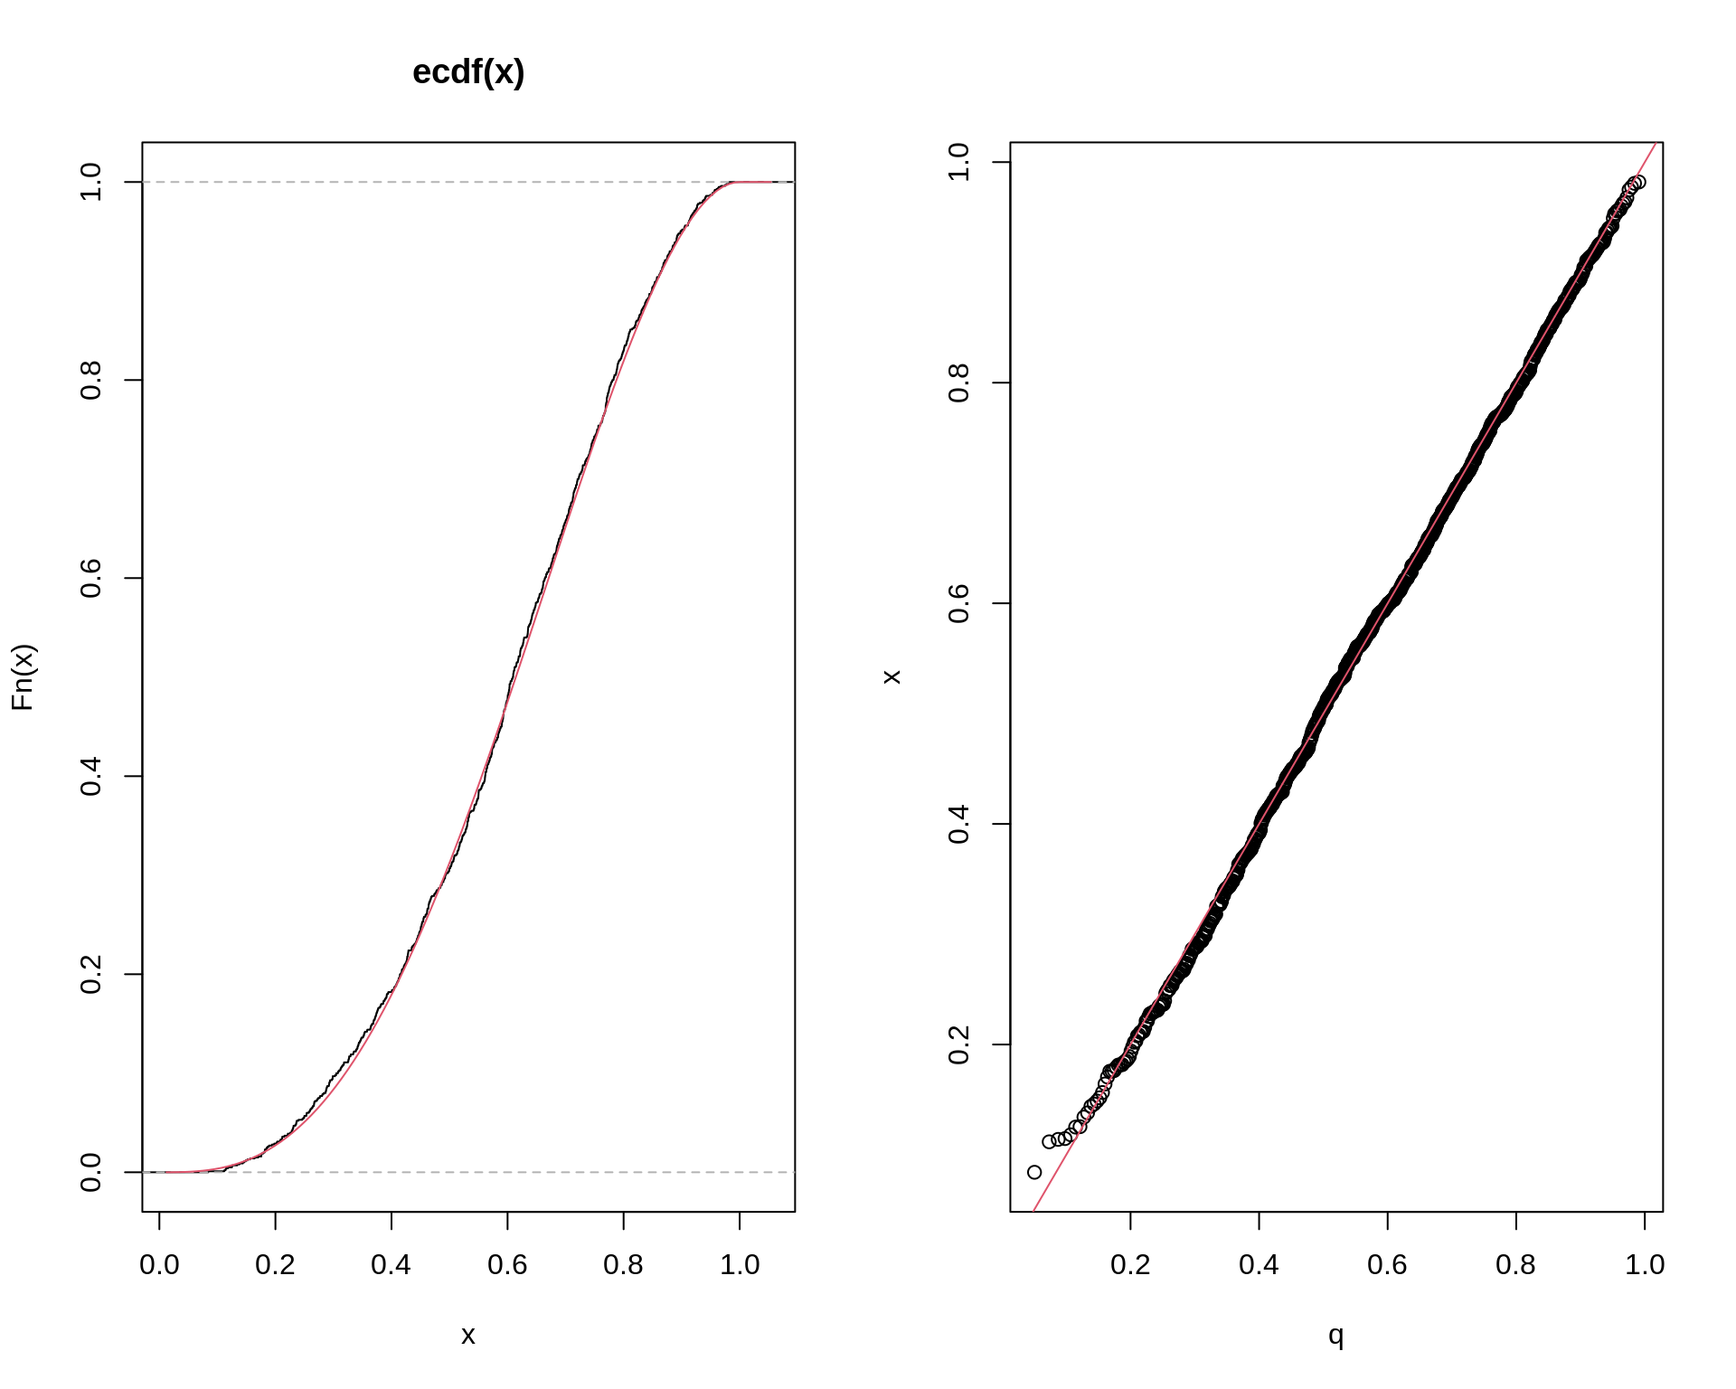
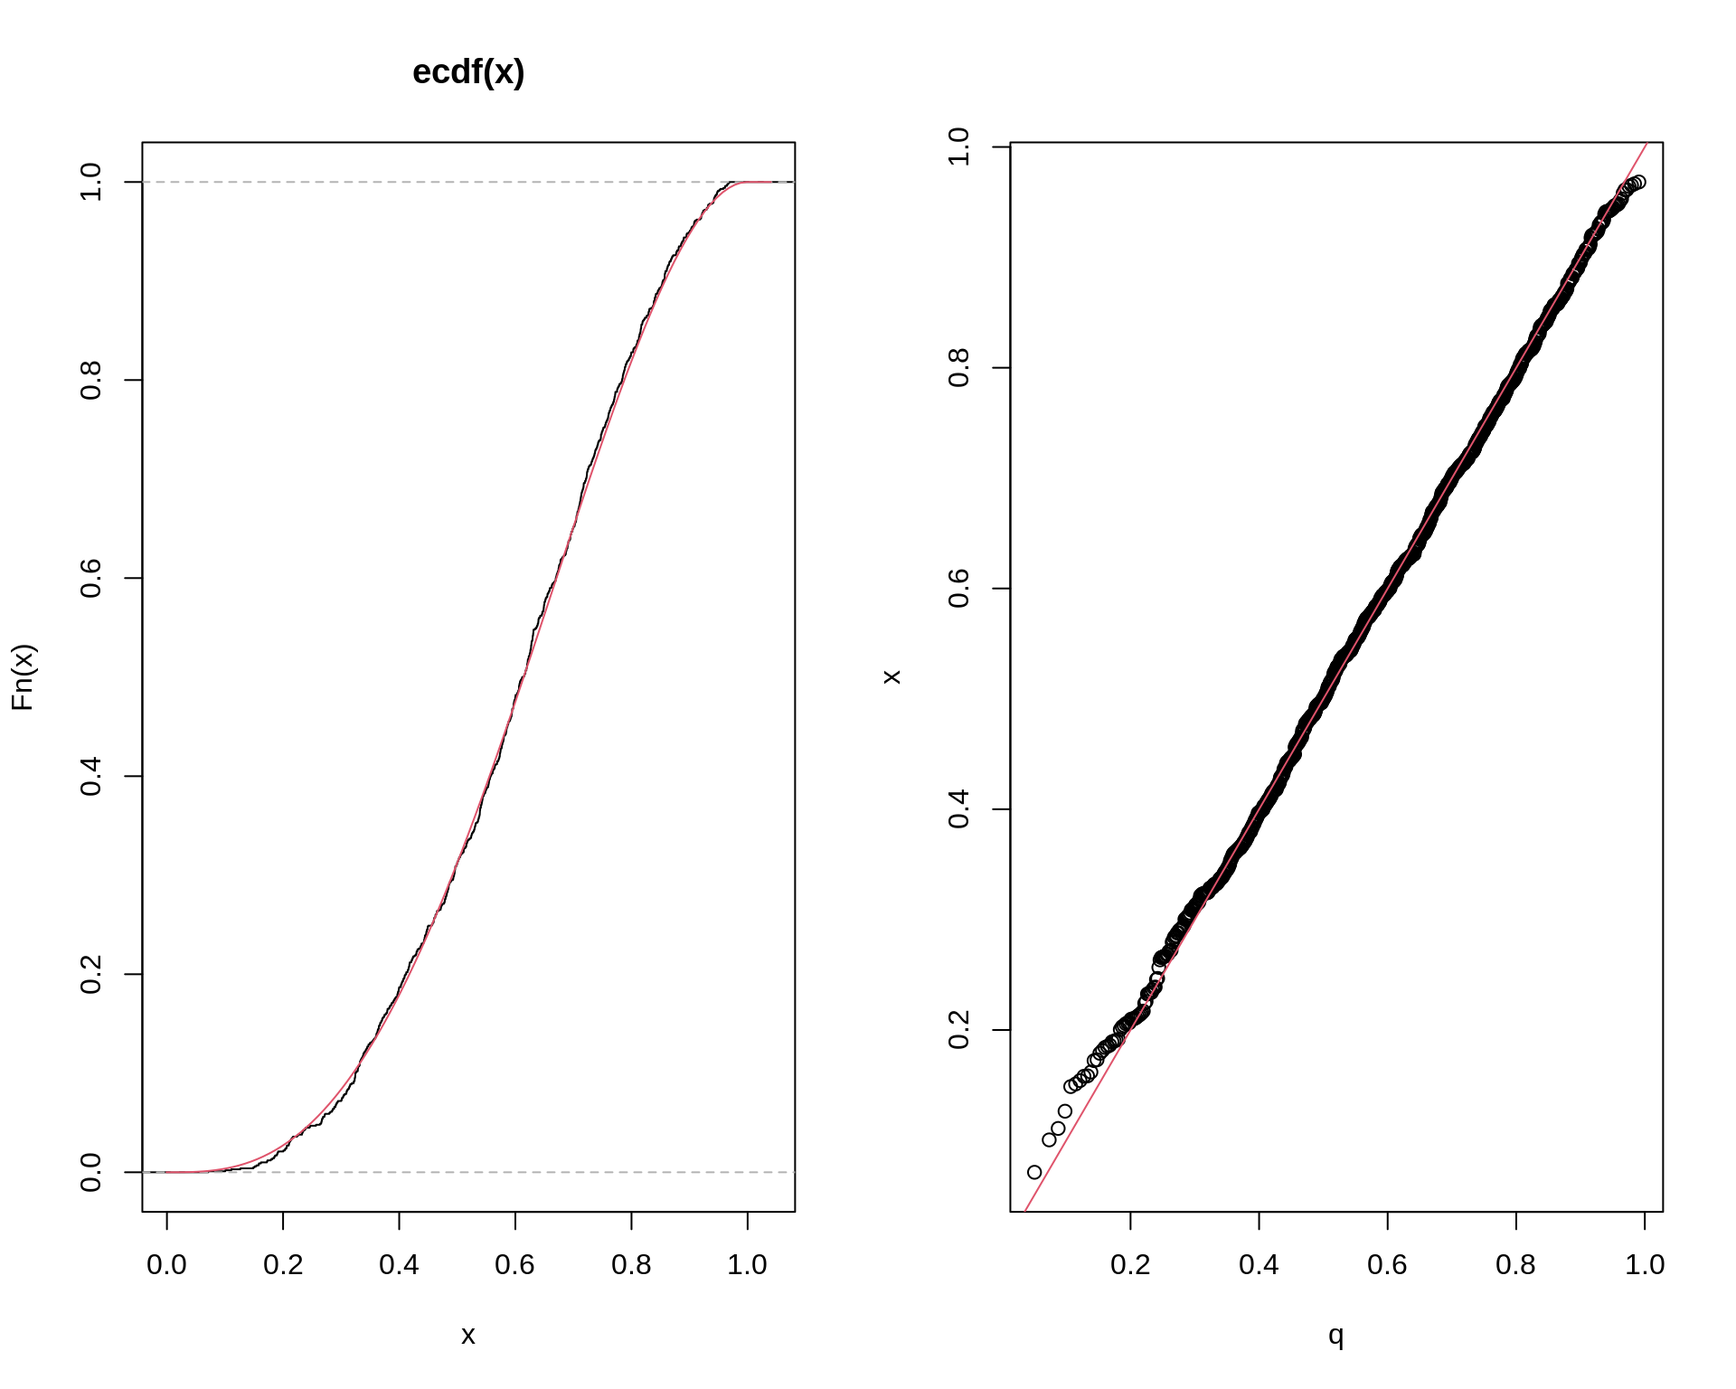
deploy: 10219f702ee48d88070e6d3098b2afc6fa2993da

diff --git a/04_RNG_aceitacao.html b/04_RNG_aceitacao.html
@@ -378,8 +378,8 @@ div.tocify {
 <h1><span class="header-section-number">1</span> Introdução</h1>
 <p>Quando se deseja gerar números aleatórios de distribuições de probabilidade, nem sempre é possível aplicar o método da transformação integral da probabilidade. Alguns situação são:</p>
 <ul>
-<li>Casos em que não se tem expressão para a função de densidade acumulada, <span class="math inline">\(F\)</span>, como é o caso da distribuição gaussiana e gama.</li>
-<li>Casos em que mesmo que se conheça <span class="math inline">\(F(x)\)</span> não possível chegar à uma expressão para a função <span class="math inline">\(F^{-1}\)</span>.</li>
+<li>Casos em que não se tem expressão para a função de densidade acumulada <span class="math inline">\(F(x)\)</span></li>
+<li>Casos em que mesmo que se conheça <span class="math inline">\(F(x)\)</span> não possível chegar à uma expressão para a função <span class="math inline">\(F^{-1}(x)\)</span>.</li>
 </ul>
 </div>
 <div id="método-de-aceitação-e-rejeição" class="section level1">
@@ -411,14 +411,14 @@ M \geq \max_x \frac{f(x)}{g(x)}
 </ol>
 <div id="exemplo-1" class="section level2">
 <h2><span class="header-section-number">2.1</span> Exemplo 1</h2>
-<p>Seja <span class="math inline">\(X\)</span> uma VA com <span class="math inline">\(f(x) = 1.5 x^2, -1 &lt; x &lt; 1\)</span>. Simular valores desta.</p>
-<pre class="r"><code>## Gráfico da f.d.p da v.a. X, f(x).
+<p>Seja <span class="math inline">\(X\)</span> uma VA com <span class="math inline">\(f(x) = 1.5 x^2, -1 &lt; x &lt; 1\)</span>. Simular valores desta distribuição.</p>
+<pre class="r"><code>## Gráfico da fdp da VA X, f(x).
 curve(1.5 * (x ^ 2), -1, 1)</code></pre>
 <p><img src="figures/04_RNG_aceitacao/fdp-1.png" width="80%" style="display: block; margin: auto;" /></p>
 <pre class="r"><code>## Tem integral 1?
 integrate(function(x) 1.5 * (x^2), lower = -1, upper = 1)</code></pre>
 <pre><code># 1 with absolute error &lt; 1.1e-14</code></pre>
-<p>Vamos considerar como <span class="math inline">\(g\)</span> (a distribuição proposta) a densidade de uma uniforme entre -1 e 1. Então se a base é 2, o altura deve ser 0.5 para ter produto 1, assim <span class="math inline">\(g(y) = 0.5, -1 &lt; y &lt; 1\)</span>. Qual deve ser um valor de <span class="math inline">\(M\)</span> para garantir que <span class="math inline">\(f(x) \leq M g(x)\)</span> para todo <span class="math inline">\(x\)</span> dentro do intervalo <span class="math inline">\([-1, 1]\)</span>? Pela definição acima, temos que: <span class="math display">\[
+<p>Vamos considerar como <span class="math inline">\(g\)</span> (a distribuição proposta) a densidade de uma uniforme entre -1 e 1. Então se a base é 2, a altura deve ser 0.5 para ter produto 1, assim <span class="math inline">\(g(y) = 0.5, -1 &lt; y &lt; 1\)</span>. Qual deve ser um valor de <span class="math inline">\(M\)</span> para garantir que <span class="math inline">\(f(x) \leq M g(x)\)</span> para todo <span class="math inline">\(x\)</span> dentro do intervalo <span class="math inline">\([-1, 1]\)</span>? Pela definição acima, temos que: <span class="math display">\[
 M \geq \max_x \frac{f(x)}{g(x)} = \frac{1.5}{0.5} = 3
 \]</span> Portanto, fazemos <span class="math inline">\(M = 3\)</span>, pois esse é o valor mínimo necessário para satisfazer <span class="math inline">\(f(x) \leq M g(x)\)</span> (e queremos o valor de <span class="math inline">\(M\)</span> menor possível para mais eficiência computacional).</p>
 <p>No gráfico abaixo, vemos a função <span class="math inline">\(f(x)\)</span>, a proposta <span class="math inline">\(g(x)\)</span>, e a que iremos de fato utilizar no algoritmo, a <span class="math inline">\(M g(x)\)</span></p>
@@ -433,7 +433,7 @@ legend(&quot;bottomright&quot;, legend = c(&quot;f(x)&quot;, &quot;g(x)&quot;, &
 f &lt;- function(x) 1.5 * x^2
 g &lt;- function(x) 0.5 + 0 * x
 M &lt;- 3
-x &lt;- NULL
+x &lt;- numeric(1)
 
 ## 1. Gerar y cuja densidade é g()
 set.seed(1)
@@ -456,20 +456,20 @@ if (u &lt; r) {
 <p>Verifica os pontos no gráfico:</p>
 <pre class="r"><code>curve(1.5 * (x^2), -1, 1, col = 4)
 curve(3 * 0.5 + 0 * x, add = TRUE, lty = 2, lwd = 2)
-legend(&quot;bottomright&quot;, legend = c(&quot;f(x)&quot;, &quot;g(x)&quot;, &quot;M g(x)&quot;),
-       lty = c(1, 2, 2), col = c(4, 1, 1), lwd = c(1, 1, 2), bty = &quot;n&quot;)
+legend(&quot;bottomright&quot;, legend = c(&quot;f(x)&quot;, &quot;M g(x)&quot;),
+       lty = c(1, 2), col = c(4, 1), lwd = c(1, 2), bty = &quot;n&quot;)
+points(y, 0, pch = 19, col = 5)
+text(y, 0, bquote(y == .(round(y, 3))), pos = 4, col = 5)
 points(y, f(y), pch = 19, col = 4)
-text(y, f(y), &quot;f(y)&quot;, pos = 4, col = 4)
+text(y, f(y), bquote(f(y) == .(round(f(y), 3))), pos = 4, col = 4)
 points(y, M * g(y), pch = 19, col = 1)
-text(y, M * g(y), &quot;M g(y)&quot;, pos = 1, col = 1)
+text(y, M * g(y), bquote(M %.% g(y) == .(M * g(y))), pos = 1, col = 1)
 points(y, u * M * g(y), pch = 19, col = 2)
-text(y, u * M * g(y), &quot;u&quot;, pos = 4, col = 2)</code></pre>
+text(y, u * M * g(y), bquote(u == .(round(u, 3))), pos = 4, col = 2)
+text(.15, 1, bquote(f(y) / M %.% g(y) == .(round(r, 3))), pos = 4)</code></pre>
 <p><img src="figures/04_RNG_aceitacao/proposalpoints-1.png" width="80%" style="display: block; margin: auto;" /></p>
 <p>Note que o valor sorteado de <span class="math inline">\(y\)</span> (da proposta <span class="math inline">\(\text{U}[-1,1]\)</span>) foi -0.469. Os pontos azul e preto são as densidades da <span class="math inline">\(f\)</span> e da <span class="math inline">\(g\)</span> avaliadas nesse ponto. Como o valor sorteado <span class="math inline">\(u\)</span> (da <span class="math inline">\(\text{U}[0,1]\)</span>) foi <span class="math inline">\(0.372 &gt; 0.22 = f(y)/Mg(y)\)</span>, então o valor de <span class="math inline">\(y\)</span> é rejeitado. Isso fica claro pelo gráfico, pois esse ponto está em uma área acima da densidade de <span class="math inline">\(f\)</span>, portanto não deve fazer parte de uma amostra dessa distribuição.</p>
 <p>Veja também que o valor de <span class="math inline">\(u\)</span> é comparável com a razão <span class="math inline">\(f(y)/Mg(y)\)</span>, pois esta razão sempre será algum valor entre 0 e 1. Portanto o valor de <span class="math inline">\(u\)</span> é sempre relativo à essa razão (i.e., não está na mesma escala das densidades de <span class="math inline">\(f\)</span> e <span class="math inline">\(g\)</span>).</p>
-<div class="alert alert-warning">
-<p>Para uma ilustração animada veja <a href="http://leg.ufpr.br/~walmes/ensino/EC2/tutoriais/met-ac-rej.html">este exemplo</a> da geração de números de uma distribuição normal, a partir de uma Cauchy (distribuição proposta). Para os detalhes da implementação veja <a href="http://leg.ufpr.br/~walmes/ensino/EC2/tutoriais/06-met-ac-rej.html">este link</a>.</p>
-</div>
 <p>Agora, podemos definir um algoritmo que repete esse processo para um número fixo de amostras da distribuição proposta.</p>
 <pre class="r"><code>## Simula de uma única vez, com um valor fixo de simulações
 Nsim &lt;- 2500
@@ -668,6 +668,85 @@ legend(&quot;right&quot;, legend = c(&quot;Empírica&quot;, &quot;Teórica&quot;
        lty = 1, col = 1:2, bty = &quot;n&quot;)
 par(mfrow = c(1, 1))</code></pre>
 <p><img src="figures/04_RNG_aceitacao/betaconf-1.png" width="80%" style="display: block; margin: auto;" /></p>
+</div>
+<div id="exemplo-3" class="section level2">
+<h2><span class="header-section-number">2.3</span> Exemplo 3</h2>
+<p>Suponha que deseja-se gerar valores de uma VA <span class="math inline">\(X \sim \text{N}(0, 1)\)</span> a partir de uma VA <span class="math inline">\(Y \sim \text{Cauchy}(0, 1)\)</span>.</p>
+<pre class="r"><code>## Verifica as distribuições
+curve(dnorm(x), -6, 6)
+curve(dcauchy(x), add = TRUE, lty = 2)
+legend(&quot;topright&quot;, legend = c(&quot;Normal&quot;, &quot;Cauchy&quot;),
+       lty = c(1, 2))</code></pre>
+<p><img src="figures/04_RNG_aceitacao/unnamed-chunk-14-1.png" width="80%" style="display: block; margin: auto;" /></p>
+<pre class="r"><code>## Obtém valor de M por otimização
+(M &lt;- optimize(f = function(x) {dnorm(x)/dcauchy(x)},
+               interval = c(-6, 6), maximum = TRUE)$objective)</code></pre>
+<pre><code># [1] 1.520347</code></pre>
+<pre class="r"><code>## Verifica as relações
+curve(M * dcauchy(x), lty = 2, lwd = 2, -6, 6,
+      ylim = c(0, M * dcauchy(0)))
+curve(dnorm(x), add = TRUE)
+curve(dcauchy(x), add = TRUE, lty = 2)
+legend(&quot;topright&quot;, legend = c(&quot;f(x)&quot;, &quot;g(x)&quot;, &quot;M g(x)&quot;),
+       lty = c(1, 2, 2), lwd = c(1, 1, 2), bty = &quot;n&quot;)</code></pre>
+<p><img src="figures/04_RNG_aceitacao/unnamed-chunk-14-2.png" width="80%" style="display: block; margin: auto;" /></p>
+<pre class="r"><code>## Cria as funções
+f &lt;- function(x) dnorm(x, 0, 1)
+g &lt;- function(x) dcauchy(x, 0, 1)
+
+## Simula
+Nsim &lt;- 2500
+## Amostra da proposta
+y &lt;- rcauchy(Nsim)
+## Amostra da U(0,1)
+u &lt;- runif(Nsim)
+r &lt;- f(y)/(M * g(y))
+x &lt;- y[u &lt; r]
+ua &lt;- u[u &lt; r]
+ur &lt;- u[u &gt;= r]
+
+## Gráfico de aceitação
+curve(dnorm(x), from = -6, to = 6, col = 4, ylim = c(0, .5))
+curve(M * dcauchy(x), add = TRUE, lty = 2, lwd = 2)
+points(x, ua * M * g(x), col = 3)
+points(y[u &gt;= r], ur * M * g(y[u &gt;= r]), col = 2)</code></pre>
+<p><img src="figures/04_RNG_aceitacao/unnamed-chunk-14-3.png" width="80%" style="display: block; margin: auto;" /></p>
+<pre class="r"><code>##----------------------------------------------------------------------
+## Aplicação direta do método para N valores
+n &lt;- 1    # Contador de valores aceitos
+l &lt;- 1    # Contador de ciclos
+N &lt;- 1000 # Total de número à gerar
+x &lt;- numeric(N)
+while (n &lt; N) {
+    y &lt;- rcauchy(1)
+    u &lt;- runif(1)
+    r &lt;- f(y)/(M * g(y))
+    if (u &lt; r) {
+        x[n] &lt;- y
+        n &lt;- n + 1
+    }
+    l &lt;- l + 1
+}
+
+## Verifica distribuição
+par(mfrow = c(1, 2))
+hist(x)
+plot(ecdf(x))
+curve(pnorm(x), add = TRUE, col = 2)
+legend(&quot;right&quot;, legend = c(&quot;Empírica&quot;, &quot;Teórica&quot;),
+       lty = 1, col = 1:2, bty = &quot;n&quot;)</code></pre>
+<p><img src="figures/04_RNG_aceitacao/unnamed-chunk-14-4.png" width="80%" style="display: block; margin: auto;" /></p>
+<pre class="r"><code>par(mfrow = c(1, 1))
+
+## Taxa de aceitação observada
+n/l</code></pre>
+<pre><code># [1] 0.6459948</code></pre>
+<pre class="r"><code>## Taxa de aceitação teórica
+1/M</code></pre>
+<pre><code># [1] 0.6577446</code></pre>
+<div class="alert alert-warning">
+<p>Para uma ilustração animada veja <a href="http://leg.ufpr.br/~walmes/ensino/EC2/tutoriais/met-ac-rej.html">este exemplo</a></p>
+</div>
 </div>
 </div>
 <div id="exercícios" class="section level1">

diff --git a/05_RNG_transform.html b/05_RNG_transform.html
@@ -455,14 +455,15 @@ k &lt;- 1:max(x)
 p &lt;- -1/log(1 - theta) * theta^k/k
 ## Compara a proporção de valores gerados com a prob. teórica
 cbind(&quot;Gerado&quot; = prop.table(table(x)), &quot;Teórico&quot; = p)</code></pre>
-<pre><code>#   Gerado     Teórico
-# 1  0.738 0.721347520
-# 2  0.155 0.180336880
-# 3  0.062 0.060112293
-# 4  0.023 0.022542110
-# 5  0.012 0.009016844
-# 6  0.008 0.003757018
-# 7  0.002 0.001610151</code></pre>
+<pre><code>#   Gerado      Teórico
+# 1  0.736 0.7213475204
+# 2  0.168 0.1803368801
+# 3  0.060 0.0601122934
+# 4  0.023 0.0225421100
+# 5  0.009 0.0090168440
+# 6  0.001 0.0037570183
+# 7  0.002 0.0016101507
+# 8  0.001 0.0007044409</code></pre>
 <pre class="r"><code>## Comparação gráfica
 par(mfrow = c(1, 2))
 plot(prop.table(table(x)), xlab = &quot;X&quot;, ylab = &quot;P[X]&quot;)
@@ -544,13 +545,13 @@ p &lt;- dbinom(k, size = size, prob = prob)
 ## Compara a proporção de valores gerados com a prob. teórica
 round(cbind(&quot;Gerado&quot; = prop.table(table(x)), &quot;Teórico&quot; = p), 3)</code></pre>
 <pre><code>#   Gerado Teórico
-# 0  0.009   0.016
-# 1  0.100   0.094
-# 2  0.211   0.234
-# 3  0.330   0.312
-# 4  0.243   0.234
-# 5  0.096   0.094
-# 6  0.011   0.016</code></pre>
+# 0  0.010   0.016
+# 1  0.097   0.094
+# 2  0.209   0.234
+# 3  0.320   0.312
+# 4  0.236   0.234
+# 5  0.111   0.094
+# 6  0.017   0.016</code></pre>
 <pre class="r"><code>## Comparação gráfica
 par(mfrow = c(1, 2))
 plot(prop.table(table(x)), xlab = &quot;X&quot;, ylab = &quot;P[X]&quot;)
@@ -755,13 +756,13 @@ boxmuller &lt;- function(n) {
     if (n %% 2 == 0) x else x[-1]
 }
 boxmuller(2)</code></pre>
-<pre><code># [1] 0.9234418 1.0826671</code></pre>
+<pre><code># [1] -1.6290155  0.6969178</code></pre>
 <pre class="r"><code>boxmuller(3)</code></pre>
-<pre><code># [1]  0.66055651  0.07799255 -1.80340422</code></pre>
+<pre><code># [1]  0.8034338 -0.7334233  0.3519718</code></pre>
 <pre class="r"><code>boxmuller(4)</code></pre>
-<pre><code># [1]  0.6975372 -0.3609859 -0.1677477 -0.4755585</code></pre>
+<pre><code># [1] -0.2283081 -1.9509366 -0.3770668  0.2954680</code></pre>
 <pre class="r"><code>boxmuller(5)</code></pre>
-<pre><code># [1] 1.0071460 1.0662797 0.1684460 0.1523806 0.3098626</code></pre>
+<pre><code># [1]  0.1846864  0.1709469  0.6878064 -0.8404593  0.9862879</code></pre>
 </div>
 <div id="método-de-coordenadas-polares" class="section level2">
 <h2><span class="header-section-number">4.3</span> Método de coordenadas polares</h2>
@@ -794,7 +795,7 @@ points(u1[!ac], u2[!ac], pch = 1, col = 2)</code></pre>
 \]</span></p>
 <p>A taxa de aceitação da simulação foi</p>
 <pre class="r"><code>sum(ac)/Nsim</code></pre>
-<pre><code># [1] 0.7912</code></pre>
+<pre><code># [1] 0.8032</code></pre>
 <div class="panel panel-primary">
 <div class="panel-heading">
 Aproximando o valor de <span class="math inline">\(\pi\)</span>
@@ -806,7 +807,7 @@ Aproximando o valor de <span class="math inline">\(\pi\)</span>
 \pi = \frac{4A_c}{A_q} \approx \frac{4 \text{ #circulo}}{\text{ #quadrado}}
 \]</span> para obter uma estimativa do valor de <span class="math inline">\(\pi\)</span></p>
 <pre class="r"><code>(4 * sum(ac))/Nsim</code></pre>
-<pre><code># [1] 3.1648</code></pre>
+<pre><code># [1] 3.2128</code></pre>
 </div>
 </div>
 <p>Conferindo os valores gerados:</p>
@@ -839,19 +840,19 @@ par(mfrow = c(1, 1))</code></pre>
     if (n %% 2 == 0) x else x[-1]
 }
 polarmethod(2)</code></pre>
-<pre><code># [1]  0.8877987 -0.9400620</code></pre>
+<pre><code># [1] 0.3925723 0.9865242</code></pre>
 <pre class="r"><code>polarmethod(3)</code></pre>
-<pre><code># [1] -0.5380968 -0.2598577 -0.9556475</code></pre>
+<pre><code># [1] -0.3265732  0.5116819  0.2362791</code></pre>
 <pre class="r"><code>polarmethod(4)</code></pre>
-<pre><code># [1] 0.1673346 0.9279059 1.1766460 1.7330495</code></pre>
+<pre><code># [1]  0.5076860  0.8425125 -0.8518986  0.7577005</code></pre>
 <pre class="r"><code>polarmethod(5)</code></pre>
-<pre><code># [1] -1.0159191 -1.4593440  1.1055767 -0.9991863 -1.2083035</code></pre>
+<pre><code># [1]  0.5641546  0.1920185  0.2441716 -1.0407564  0.7668041</code></pre>
 <p>Comparando os dois métodos vemos que, apesar do método polar não usar funções seno e cosseno, é necessário usar o <code>while()</code>, o que “encarece” o algoritmo computacionalemnte.</p>
 <pre class="r"><code>microbenchmark::microbenchmark(boxmuller(1000), polarmethod(1000))</code></pre>
 <pre><code># Unit: microseconds
 #               expr    min      lq     mean median      uq    max neval cld
-#    boxmuller(1000)   63.9   66.00   68.039   67.7   69.55   81.8   100  a 
-#  polarmethod(1000) 2518.0 2617.55 2875.013 2673.9 2720.75 7171.2   100   b</code></pre>
+#    boxmuller(1000)   63.8   66.00   67.854   66.9   68.55  107.1   100  a 
+#  polarmethod(1000) 2604.3 2647.05 2912.675 2683.8 2740.35 7375.5   100   b</code></pre>
 </div>
 <div id="a-função-rnorm" class="section level2">
 <h2><span class="header-section-number">4.4</span> A função <code>rnorm()</code></h2>

diff --git a/programacao.html b/programacao.html
@@ -778,15 +778,15 @@ st1 &lt;- system.time(
 )
 st1</code></pre>
 <pre><code>#    user  system elapsed 
-#   0.074   0.000   0.074</code></pre>
+#   0.075   0.000   0.075</code></pre>
 <pre class="r"><code>## Tempo de execução usando a regra da reciclagem
 st2 &lt;- system.time(
     y2 &lt;- x^2
 )
 st2</code></pre>
 <pre><code>#    user  system elapsed 
-#   0.002   0.000   0.002</code></pre>
-<p>Olhando o resultado de <code>elapsed</code>, que é o tempo total de execução de uma função medido por <code>system.time()</code>, notamos que usando a regra da reciclagem, o cálculo é aproximadamente 0.074/0.002 = 37 vezes mais rápido. Claramente esse é só um exemplo de um cálculo muito simples. Mas em situações mais complexas, a diferença entro o tempo de execução das duas formas pode ser muito maior.</p>
+#   0.004   0.000   0.004</code></pre>
+<p>Olhando o resultado de <code>elapsed</code>, que é o tempo total de execução de uma função medido por <code>system.time()</code>, notamos que usando a regra da reciclagem, o cálculo é aproximadamente 0.075/0.004 = 18.75 vezes mais rápido. Claramente esse é só um exemplo de um cálculo muito simples. Mas em situações mais complexas, a diferença entro o tempo de execução das duas formas pode ser muito maior.</p>
 <div class="panel panel-primary">
 <div class="panel-heading">
 Uma nota de precaução

diff --git a/objetos-classes.html b/objetos-classes.html
@@ -1513,7 +1513,7 @@ class(vec)</code></pre>
 # 
 # function (x, ...) 
 # standardGeneric(&quot;mean&quot;)
-# &lt;environment: 0x55a29320de28&gt;
+# &lt;environment: 0x555564982cf0&gt;
 # Methods may be defined for arguments: x
 # Use  showMethods(mean)  for currently available ones.</code></pre>
 <p>Agora veja o código fonte da função <code>mean.default</code>, que é o método específico para vetores numéricos</p>
@@ -1542,7 +1542,7 @@ class(vec)</code></pre>
 #     }
 #     .Internal(mean(x))
 # }
-# &lt;bytecode: 0x55a286eb5e58&gt;
+# &lt;bytecode: 0x5555585c9e58&gt;
 # &lt;environment: namespace:base&gt;</code></pre>
 <p>Agora suponha que você ddeseja criar uma função que calcule a média para um objeto de uma classe diferente daquelas previamente definidas. Por exemplo, suponha que você quer que a função <code>mean()</code> retorne a média das linhas de uma matriz.</p>
 <pre class="r"><code>set.seed(1)
@@ -1607,7 +1607,7 @@ class(dl)</code></pre>
 </div>
 <div id="informação-de-sessão" class="section level1">
 <h1><span class="header-section-number">11</span> Informação de Sessão</h1>
-<pre><code># Sunday, 20 February, 2022, 01:39
+<pre><code># Monday, 21 February, 2022, 21:49
 # ----------------------------------------
 # R version 4.1.2 (2021-11-01)
 # Platform: x86_64-pc-linux-gnu (64-bit)

diff --git a/10_bootstrap.html b/10_bootstrap.html
@@ -724,7 +724,7 @@ obj</code></pre>
 #  $ seed     : int [1:626] 10403 67 374337935 -66916328 796352990 -1344538218 7326455 801261936 -841320945 1823181309 ...
 #  $ statistic:function (x, i)  
 #   ..- attr(*, &quot;srcref&quot;)= &#39;srcref&#39; int [1:8] 2 6 4 1 6 1 2 4
-#   .. ..- attr(*, &quot;srcfile&quot;)=Classes &#39;srcfilecopy&#39;, &#39;srcfile&#39; &lt;environment: 0x55a28e8f80b8&gt; 
+#   .. ..- attr(*, &quot;srcfile&quot;)=Classes &#39;srcfilecopy&#39;, &#39;srcfile&#39; &lt;environment: 0x5555615bb010&gt; 
 #  $ sim      : chr &quot;ordinary&quot;
 #  $ call     : language boot(data = law, statistic = r, R = 2000)
 #  $ stype    : chr &quot;i&quot;
